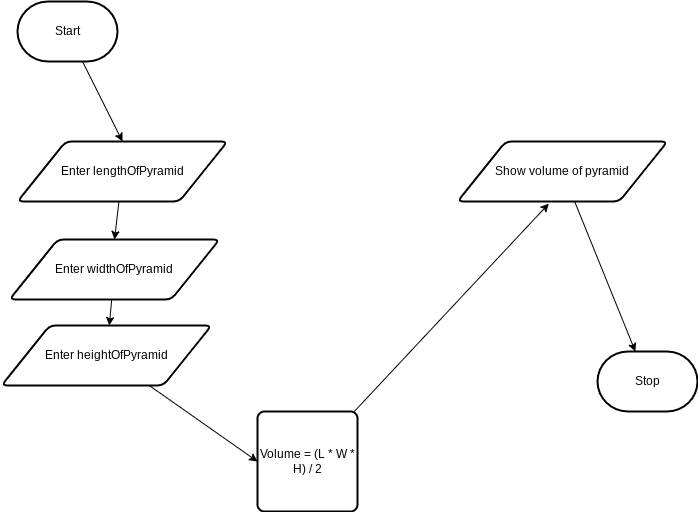
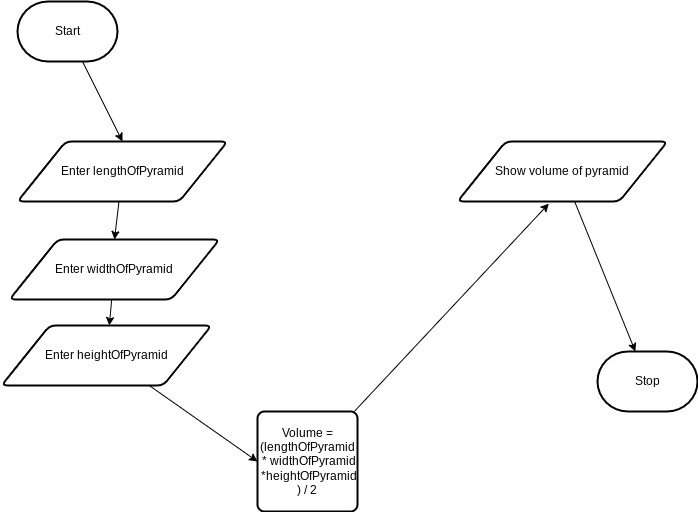
edited flowchart, js and index

Changed region(s): [[0.361, 0.8438, 0.5115, 0.9688]]

diff --git a/index.html b/index.html
@@ -37,7 +37,7 @@
       <form action="#">
         <div class="mdl-textfield mdl-js-textfield">
           <!-- input pattern attribute -->
-          <input class="mdl-textfield__input" type="text" pattern="-?[0-9]*(\.[0-9]+)?" id="lengthOfPyramid" step=".01" />
+          <input class="mdl-textfield__input" type="text" pattern="-?[0-9]*(\.[0-9]+)?" id="length-of-pyramid" step=".01" />
           <!-- mdl-textfield__label -->
           <label class="mdl-textfield__label" for="demo-input">base a (mm)</label>
           <!-- class "mdl-textfield__error" -->
@@ -46,7 +46,7 @@
         <br />
         <div class="mdl-textfield mdl-js-textfield">
           <!-- input pattern attribute -->
-          <input class="mdl-textfield__input" type="text" pattern="-?[0-9]*(\.[0-9]+)?" id="widthOfPyramid" step=".01" />
+          <input class="mdl-textfield__input" type="text" pattern="-?[0-9]*(\.[0-9]+)?" id="width-of-pyramid" step=".01" />
           <!-- mdl-textfield__label -->
           <label class="mdl-textfield__label" for="demo-input">base b (mm)</label>
           <!-- class "mdl-textfield__error" -->
@@ -55,7 +55,7 @@
         <br>
         <div class="mdl-textfield mdl-js-textfield">
           <!-- input pattern attribute -->
-          <input class="mdl-textfield__input" type="text" pattern="-?[0-9]*(\.[0-9]+)?" id="heightOfPyramid" step=".01" />
+          <input class="mdl-textfield__input" type="text" pattern="-?[0-9]*(\.[0-9]+)?" id="height-of-pyramid" step=".01" />
           <!-- mdl-textfield__label -->
           <label class="mdl-textfield__label" for="demo-input">height (mm)</label>
           <!-- class "mdl-textfield__error" -->

diff --git a/js/script.js b/js/script.js
@@ -7,15 +7,18 @@
 "use strict"
 
 function myButtonClicked() {
+
   //input
-  const firstBase = document.getElementById("base-a").value
-  const secondBase = document.getElementById("base-b").value
-  const heightOfTrapezium = document.getElementById("height").value
+  const lengthOfPyramid = parseFloat(document.getElementById("length-of-pyramid").value)
+  const widthOfPyramid = parseFloat(document.getElementById("width-of-pyramid").value)
+  const heightOfPrapezium = parseFloat(document.getElementById("height-of-pyramid").value)
+
   //process
-  const areaHalfway = (firstBase * secondBase) * heightOfTrapezium
-  const areaAnswer = areaHalfway / 2
+  const volumeHalfway = (lengthOfPyramid * widthOfPyramid * heightOfPrapezium)
+  const volumeAnswer = volumeHalfway / 2 
+  const volumeFinalAnswer = volumeAnswer.toFixed(2)
 
   //output
   document.getElementById("answer").innerHTML =
-    "The area of this trapezium is: " + areaAnswer + " mm²."
+    "The volume of this pyramid is: " + volumeFinalAnswer + " mm³."
 }
